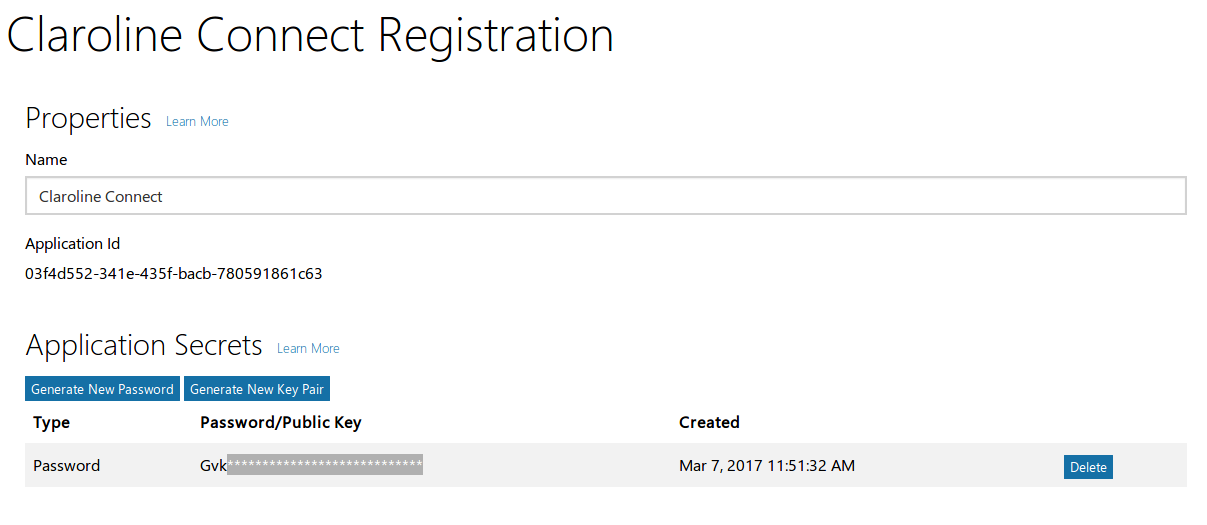
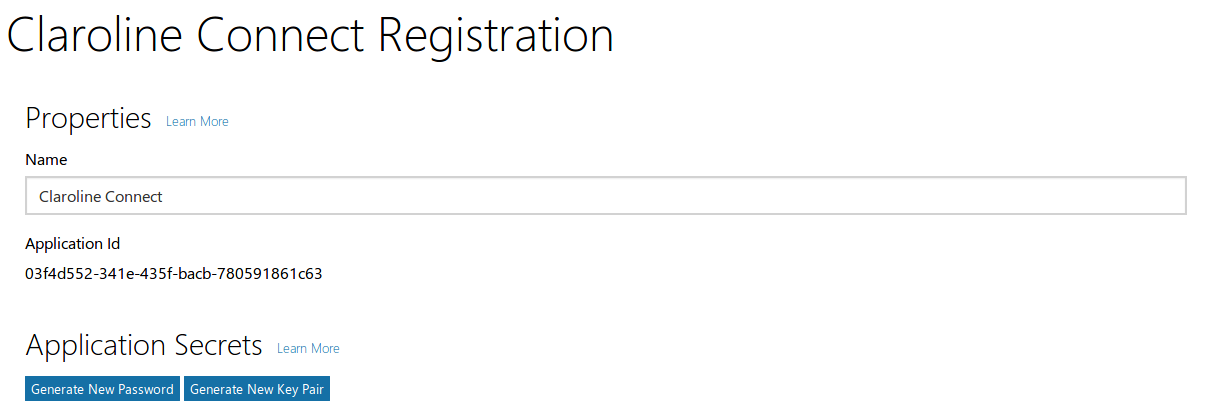
Creates fr/admin/oauth/images/o365-settings.png
Auto commit by GitBook Editor

diff --git a/fr/admin/oauth/office-365.md b/fr/admin/oauth/office-365.md
@@ -1,8 +1,8 @@
-### Enregistrer et configurer une App Office 365
+### Configurer la connexion à Claroline Connect via Office 365
 ---
 
 
-* Connectez-vous au [Microsoft account Developer Center](https://apps.dev.microsoft.com/#/appList) à l'aide de vos identifiants Windows et cliquez sur **Add an app**.
+* Connectez-vous au [Microsoft account Developer Center](https://apps.dev.microsoft.com/#/appList) à l'aide de vos identifiants Office 365 et cliquez sur **Add an app**.
 
 ![](images/windows-add-app.png)
 
@@ -12,21 +12,25 @@
 
 * Votre application est créée et vous êtes redirigé vers la page de configuration de votre app.
 
-Vous y trouvez votre **Application ID**.
+Vous y trouvez votre **Application ID** que vous allez copier-coller sur votre plateforme dans **Administration -> Paramètres de la plateforme -> Oauth -> Windows Live** dans l'espace réservé à l'**ID de l'application**.
 
 ![](images/windows-your-credentials.png)
 
-* Cliquez sur **Generate New Password** pour obtenir un mot de passe correspondant au secret à copier-coller sur votre plateforme dans **Administration -> Paramètres de la plateforme -> Oauth -> Windows Live**.
+* Cliquez sur **Generate New Password** pour obtenir un mot de passe.
 
-* Cliquez sur **Add Pplatform** dans la section **Platforms**.
+![](images/o365-generate-password.png)
+
+C'est ce mot de passe que vous allez copier-coller sur votre plateforme dans **Administration -> Paramètres de la plateforme -> Oauth -> Windows Live** dans l'espace réservé au **Secret de l'application**.
+
+Attention: C'est la seule fois que ce mot de passe sera visible. Pensez à le sauvegarder dans un endroit sûr. En cas de perte, revenez ici pour en générer un nouveau.
+
+![](images/o365-settings.png)
+
+* Cliquez sur **Add Platform** dans la section **Platforms**.
 
 ![](images/windows-add-platform.png)
 
 * Choisissez **Web**.
-
-![](images/windows-add-web.png)
-
-![](images/o365-your-credentials.png)
 
 * Remplissez l'URL de redirection au format :
     
@@ -34,6 +38,6 @@ Vous y trouvez votre **Application ID**.
 
     Exemple: http://3l.claroline.com/login/check-o365
 
-![](/fr/admin/oauth/images/o365-url.png)
+![](images/o365-url.png)
 
 * Remplissez éventuellement les informations dans la section **Profile** et cliquez sur **Save**.
